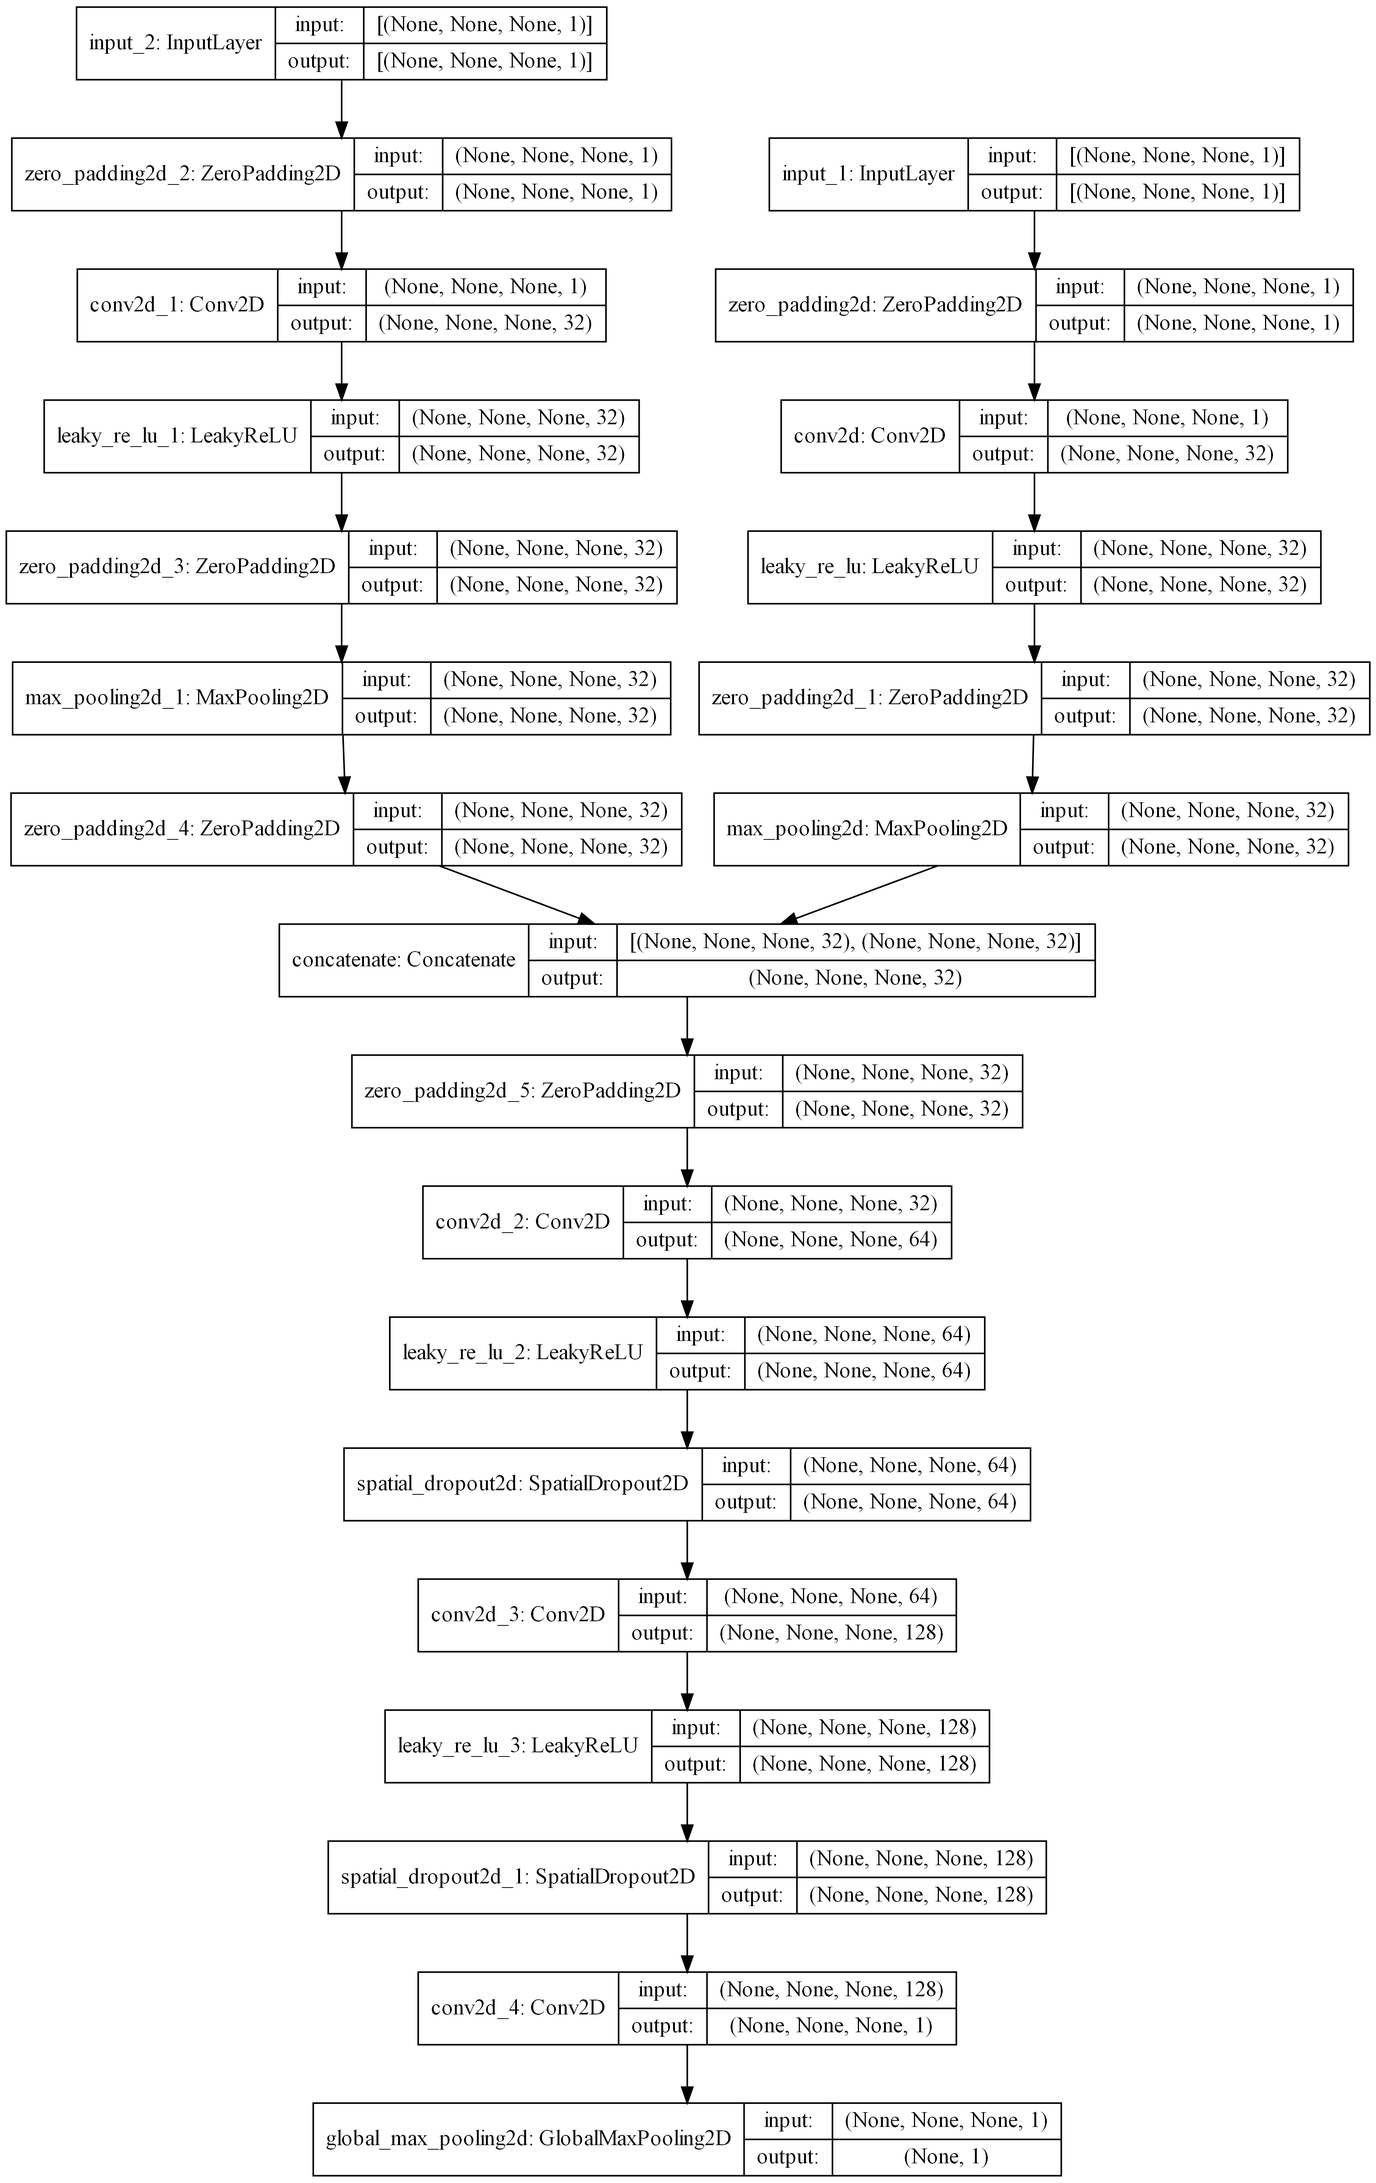
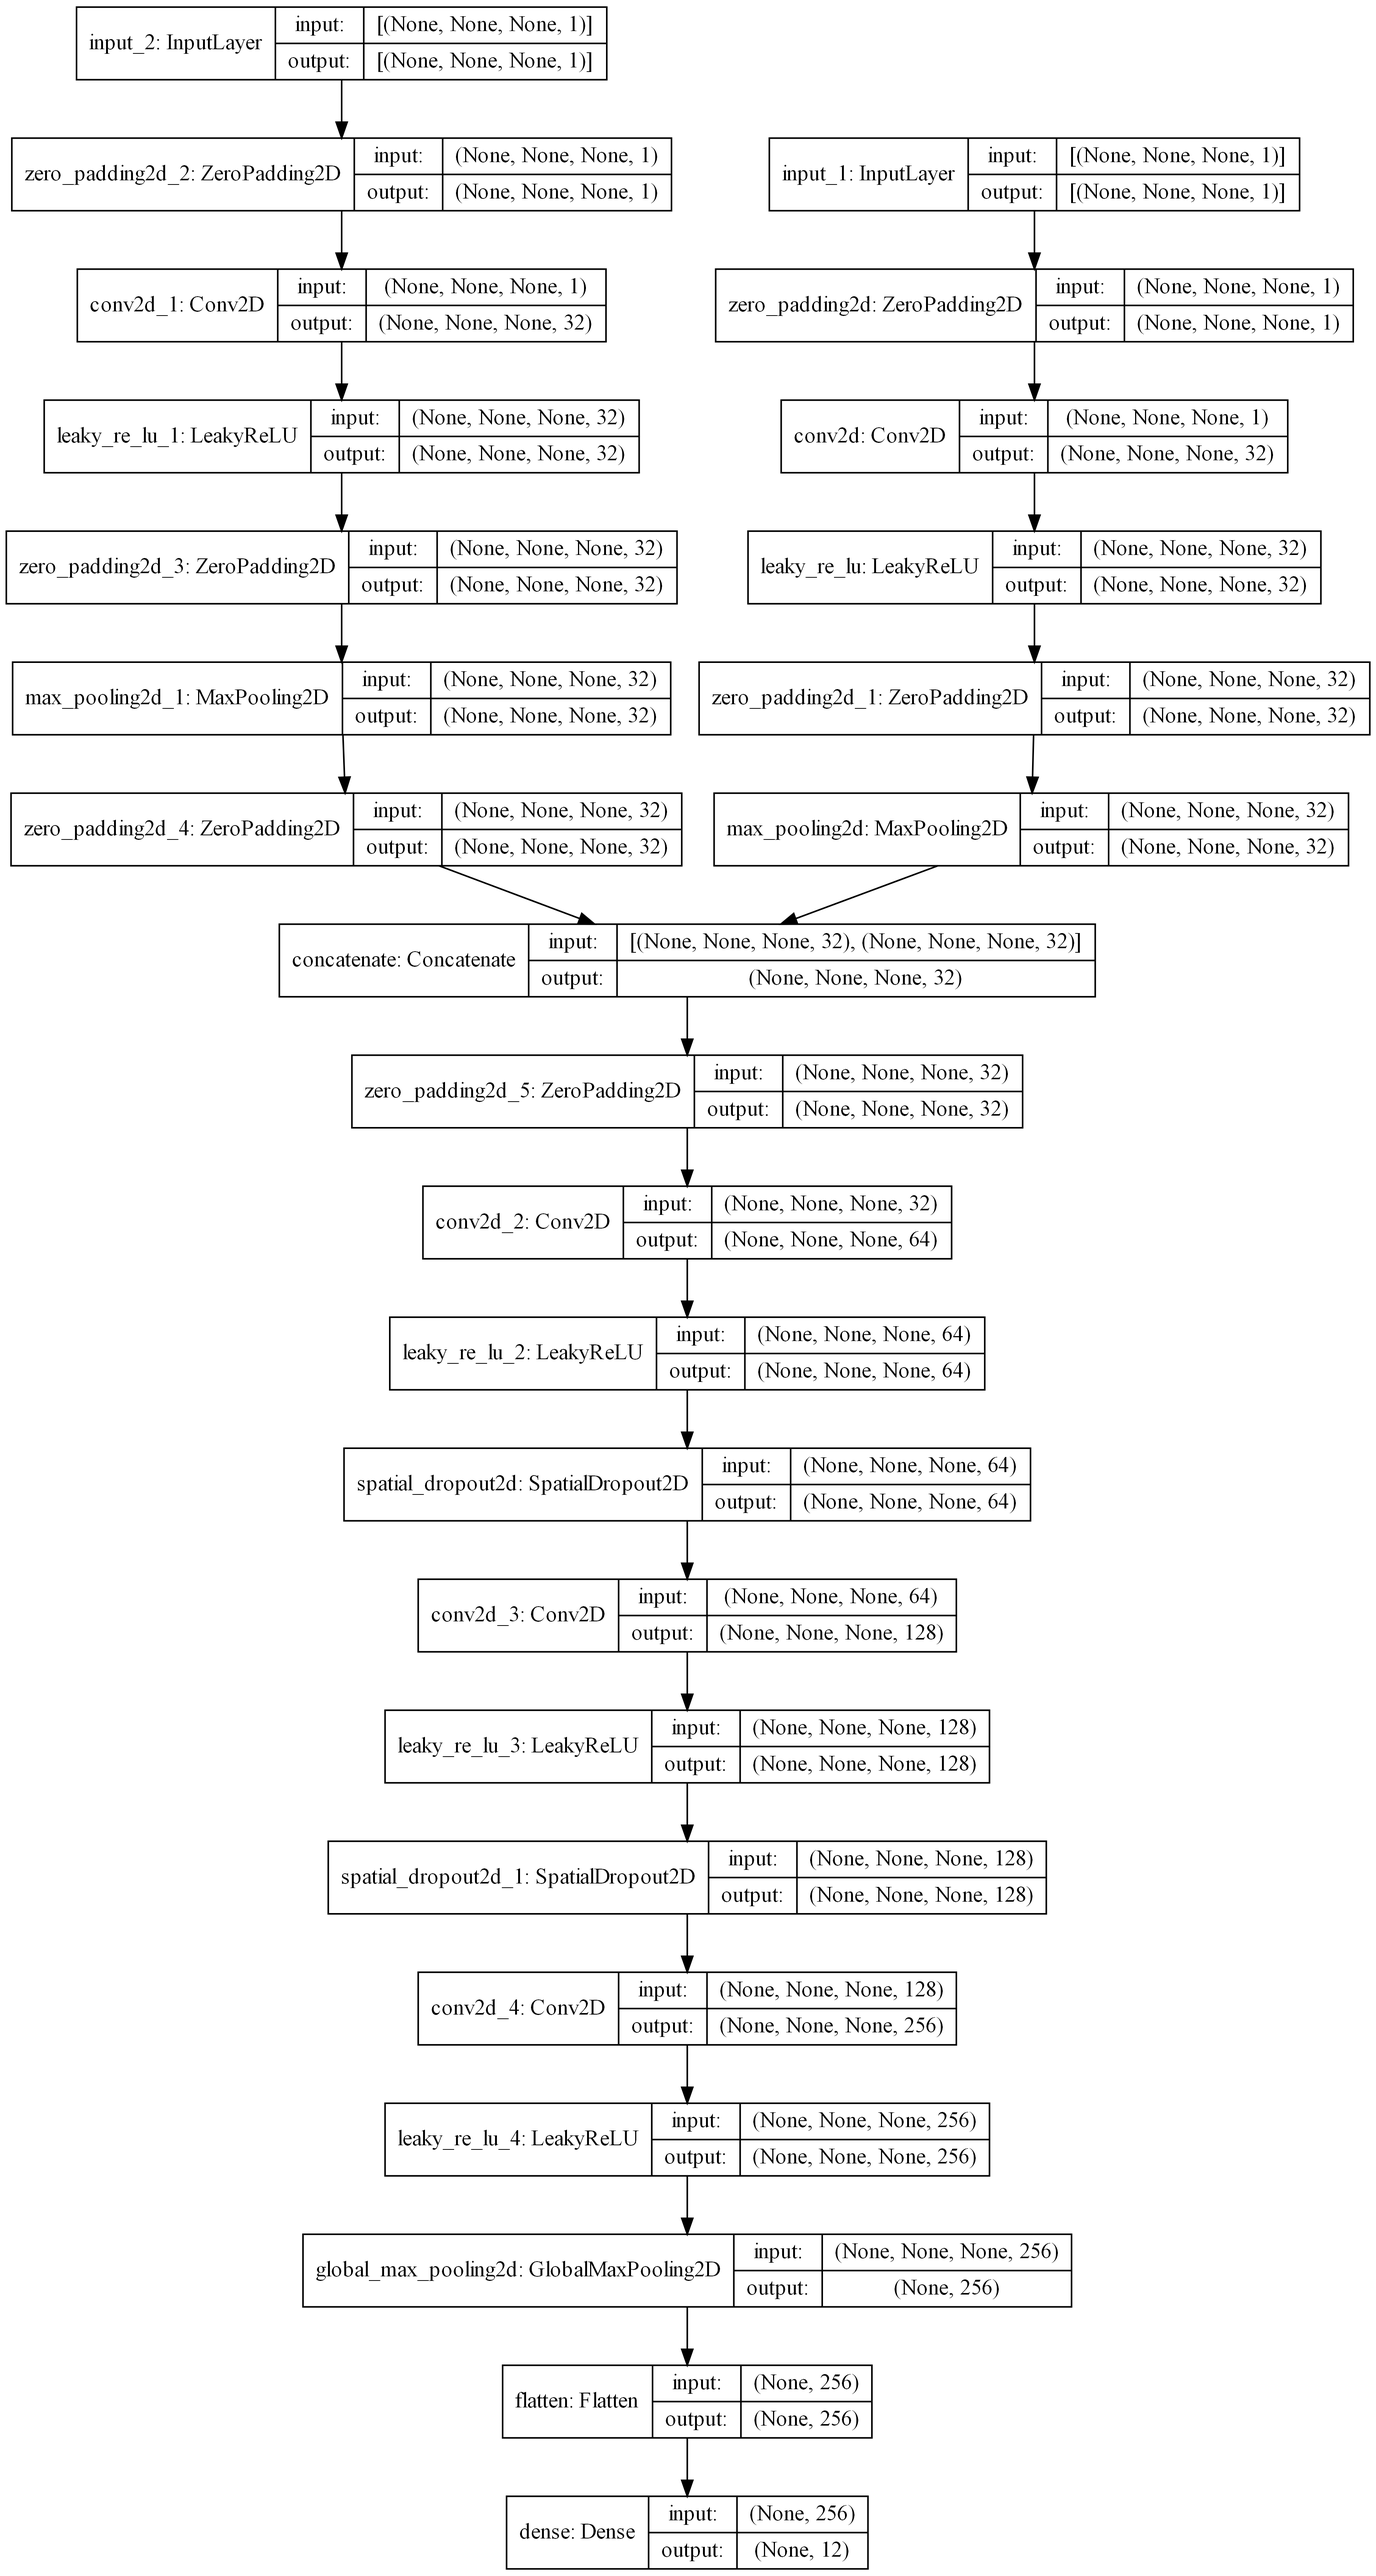
Update

Changed region(s): [[0.0, 0.0, 1.0, 0.9995], [0.0622, 0.3748, 0.0933, 0.406]]

diff --git a/main.py b/main.py
@@ -103,6 +103,22 @@ VAL_LABELPATH = os.path.join(MASTER_INPUT_DIR, 'Labels/Validate/')
 
 
 # region DEPRECATED
+# Deprecated WORKING PIPELINE MODEL
+def old_formnn_pipeline(combined, output_channels=32, lrval=0.0001):
+    z = layers.ZeroPadding2D(padding=((1, 1), (6, 6)))(combined)
+    z = layers.Conv2D(filters=(output_channels * 2), kernel_size=(3, 5), strides=(1, 1),
+                      padding='same', dilation_rate=(1, 3))(z)
+    z = layers.LeakyReLU(alpha=lrval)(z)
+    z = layers.SpatialDropout2D(rate=0.5)(z)
+    # z = layers.Reshape(target_shape=(-1, 1, output_channels * 152))(z)
+    z = layers.Conv2D(filters=output_channels * 4, kernel_size=(1, 1), strides=(1, 1), padding='same')(z)
+    z = layers.LeakyReLU(alpha=lrval)(z)
+    z = layers.SpatialDropout2D(rate=0.5)(z)
+    z = layers.Conv2D(filters=1, kernel_size=(1, 1), strides=(1, 1), padding='same')(z)
+    z = layers.GlobalMaxPooling2D()(z)
+    return z
+
+
 # Deprecated MLS MODEL
 def cnn_mls(output_channels, lrval=0.0001):
     model = tf.keras.Sequential()
@@ -481,13 +497,16 @@ def formnn_pipeline(combined, output_channels=32, lrval=0.0001):
     z = layers.Conv2D(filters=(output_channels * 2), kernel_size=(3, 5), strides=(1, 1),
                       padding='same', dilation_rate=(1, 3))(z)
     z = layers.LeakyReLU(alpha=lrval)(z)
-    z = layers.SpatialDropout2D(rate=0.5)(z)  # ?
+    z = layers.SpatialDropout2D(rate=0.5)(z)
     # z = layers.Reshape(target_shape=(-1, 1, output_channels * 152))(z)
     z = layers.Conv2D(filters=output_channels * 4, kernel_size=(1, 1), strides=(1, 1), padding='same')(z)
     z = layers.LeakyReLU(alpha=lrval)(z)
-    z = layers.SpatialDropout2D(rate=0.5)(z)  # ?
-    z = layers.Conv2D(filters=1, kernel_size=(1, 1), strides=(1, 1), padding='same')(z)
+    z = layers.SpatialDropout2D(rate=0.5)(z)
+    z = layers.Conv2D(filters=output_channels * 8, kernel_size=(1, 1), strides=(1, 1), padding='same')(z)
+    z = layers.LeakyReLU(alpha=lrval)(z)
     z = layers.GlobalMaxPooling2D()(z)
+    z = layers.Flatten()(z)
+    z = layers.Dense(12, activation='sigmoid')(z)
     return z
 
 
@@ -498,9 +517,8 @@ def formnn_fuse(output_channels=32, lrval=0.0001):
     cnn2_in = formnn_pipeline(combined, output_channels, lrval=lrval)
     opt = keras.optimizers.Adam(lr=lrval)  # learning rate
     model = keras.models.Model(inputs=[cnn1_mel.input, cnn1_sslm.input], outputs=[cnn2_in])  # --v ['accuracy'])
-    # model.compile(loss='sparse_categorical_crossentropy', optimizer=opt, metrics=[keras.metrics.Accuracy()])
     model.compile(loss=keras.losses.BinaryCrossentropy(from_logits=True), optimizer=opt,
-                  metrics=[keras.metrics.Accuracy()])
+                  metrics=['accuracy'])
     # metrics=[tf.keras.metrics.Precision(), tf.keras.metrics.Recall()])
     # Try categorical_crossentropy
 
@@ -581,7 +599,7 @@ def trainModel():
                     break
             tpl = next(gen1)  # keras.utils.to_categorical(tpl[1])
             # yield [tf.expand_dims(tpl[0], axis=-1), tf.expand_dims(next(gen2)[0], axis=-1)], tpl[1]
-            yield [tf.expand_dims(tpl[0], axis=-1), next(multi_input_generator_helper(gen2, gen3, gen4, gen5))], tpl[1]
+            yield [tpl[0], next(multi_input_generator_helper(gen2, gen3, gen4, gen5))], tpl[1]
 
     train_datagen = multi_input_generator(mls_train, sslm_cmcos_train, sslm_cmeuc_train, sslm_mfcos_train,
                                           sslm_mfeuc_train)
@@ -592,10 +610,12 @@ def trainModel():
 
     steps_per_epoch = len(list(mls_train)) // batch_size
     steps_per_valid = len(list(mls_train2)) // batch_size  # mls_val
+    label_encoder = LabelEncoder()
+    label_encoder.classes_ = np.load(os.path.join(MASTER_DIR, 'form_classes.npy'))  # len(label_encoder.classes_) for nn
 
     trmodel = formnn_fuse(output_channels=32, lrval=0.00001)
     # , lrval=.009999999776482582)(32) CNN Layer 1 Output Characteristic Maps                'val_loss' or val_accuracy
-    checkpoint = ModelCheckpoint(os.path.join(MASTER_DIR, 'best_formNN_model.hdf5'), monitor='val_loss', verbose=0,  # 1
+    checkpoint = ModelCheckpoint(os.path.join(MASTER_DIR, 'best_formNN_model.hdf5'), monitor='val_accuracy', verbose=0,
                                  save_best_only=True, mode='max', save_freq='epoch', save_weights_only=True)
     model_history = trmodel.fit(train_datagen, epochs=10, verbose=1, validation_data=valid_datagen,
                                 shuffle=False, callbacks=[checkpoint], batch_size=batch_size,
@@ -612,7 +632,6 @@ def trainModel():
     plt.savefig('Initial_Model_Loss.png')
     plt.show()
 
-    """
     # print(model_history.history.keys())
     #   dict_keys(['loss', 'precision', 'recall', 'val_loss', 'val_precision', 'val_recall'])
     # PLOT MODEL HISTORY OF ACCURACY AND LOSS OVER EPOCHS
@@ -626,7 +645,8 @@ def trainModel():
     plt.show()
     # pd.DataFrame(model_history.history).plot()  # figsize=(8, 5)
     # plt.show()
-    
+
+    """
     plt.plot(model_history.history['precision'])
     plt.plot(model_history.history['val_precision'])
     plt.title('Model Precision')
@@ -646,13 +666,10 @@ def trainModel():
     plt.show()
     """
 
-    print("Running prediction...")
     predictions = trmodel.predict_generator(train_datagen, steps=1, verbose=1)
     print(predictions)
     print("Prediction complete!")
 
-    label_encoder = LabelEncoder()
-    label_encoder.classes_ = np.load(os.path.join(MASTER_DIR, 'form_classes.npy'))
     inverted = label_encoder.inverse_transform([np.argmax(predictions[0, :])])
     print(inverted)
 

diff --git a/data_utils.py b/data_utils.py
@@ -757,6 +757,7 @@ def ReadLabelSecondsPhrasesFromFolder(lblpath=DEFAULT_LABELPATH, stop=-1):
     onehot_encoder = OneHotEncoder(sparse=False)
     integer_encoded = integer_encoded.reshape(len(integer_encoded), 1)
     onehot_encoded = onehot_encoder.fit_transform(integer_encoded)  # print(onehot_encoded)
+    # onehot_encoded = to_categorical(integer_encoded, len(label_encoder.classes_))
     # inverted = label_encoder.inverse_transform([argmax(onehot_encoded[0, :])])  # Return original label from encoding
     # np.save(os.path.join(MASTER_DIR, 'form_classes.npy'), label_encoder.classes_)
     # print(label_encoder.classes_)
@@ -772,7 +773,7 @@ def ReadLabelSecondsPhrasesFromFolder(lblpath=DEFAULT_LABELPATH, stop=-1):
     onehot_labels = onehot_encoder.fit_transform(integer_encoded)  # print(onehot_encoded)
     # inverted = label_encoder.inverse_transform([argmax(onehot_encoded[0, :])])  # Return original label from encoding
     """
-    return nums, lbls, onehot_encoded
+    return nums, lbls, tf.expand_dims(onehot_encoded, axis=-1)
 
 
 def prepend_line(file_name, line):
